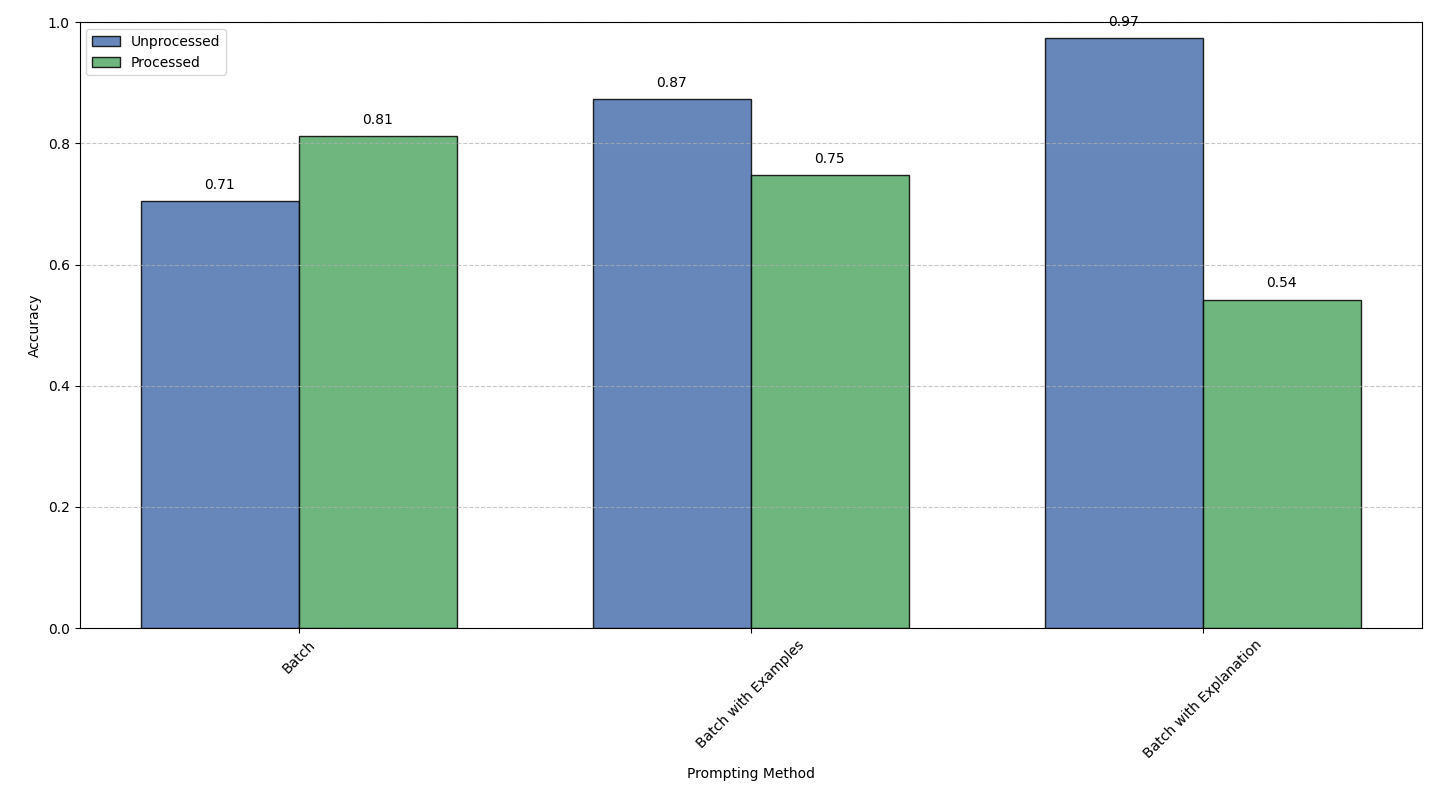
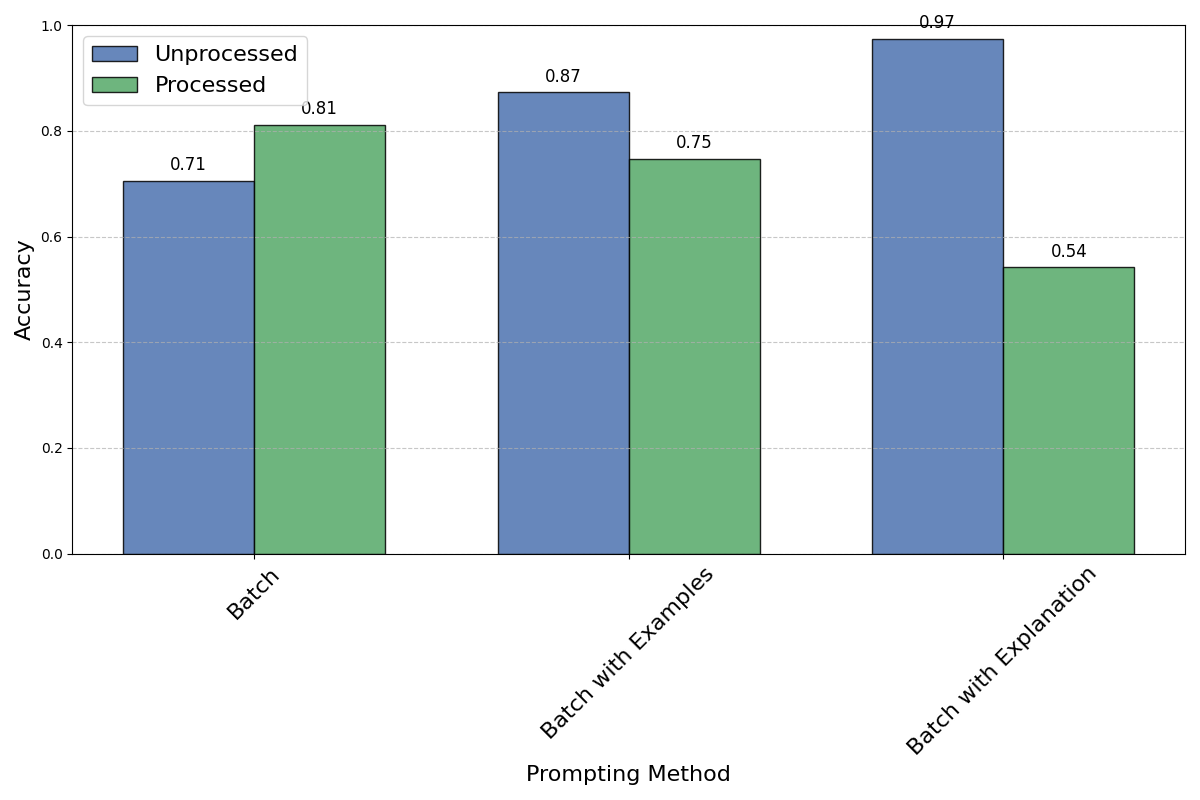
Changed graph look

diff --git a/langchain_intro/accuracyPlot2.py b/langchain_intro/accuracyPlot2.py
@@ -109,9 +109,9 @@ plt.grid(axis="y", linestyle="--", alpha=0.7)
 
 # Annotate accuracy values on top of the bars
 for i, v in enumerate(unprocessed_values):
-    plt.text(x[i] - width / 2, v + 0.02, f"{v:.2f}", ha="center", fontsize=10, fontweight="medium")
+    plt.text(x[i] - width / 2, v + 0.02, f"{v:.2f}", ha="center", fontsize=12, fontweight="medium")
 for i, v in enumerate(processed_values):
-    plt.text(x[i] + width / 2, v + 0.02, f"{v:.2f}", ha="center", fontsize=10, fontweight="medium")
+    plt.text(x[i] + width / 2, v + 0.02, f"{v:.2f}", ha="center", fontsize=12, fontweight="medium")
 
 # Set axis limits and ticks
 # plt.ylim(0, 1.1)  # Extend slightly beyond 1 for better visibility of annotations

diff --git a/langchain_intro/accuracyPlot3_1.py b/langchain_intro/accuracyPlot3_1.py
@@ -55,9 +55,9 @@ plt.legend(loc="upper left", fontsize=16)
 
 # Add value annotations
 for i, v in enumerate(unprocessed_values):
-    plt.text(x[i] - width / 2, v + 0.02, f"{v:.2f}", ha="center", fontsize=8)
+    plt.text(x[i] - width / 2, v + 0.02, f"{v:.2f}", ha="center", fontsize=12)
 for i, v in enumerate(processed_values):
-    plt.text(x[i] + width / 2, v + 0.02, f"{v:.2f}", ha="center", fontsize=8)
+    plt.text(x[i] + width / 2, v + 0.02, f"{v:.2f}", ha="center", fontsize=12)
 
 plt.tight_layout()
 plt.show()
